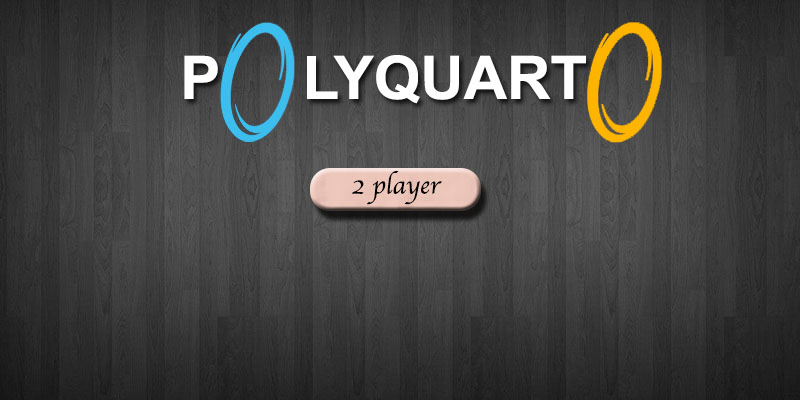
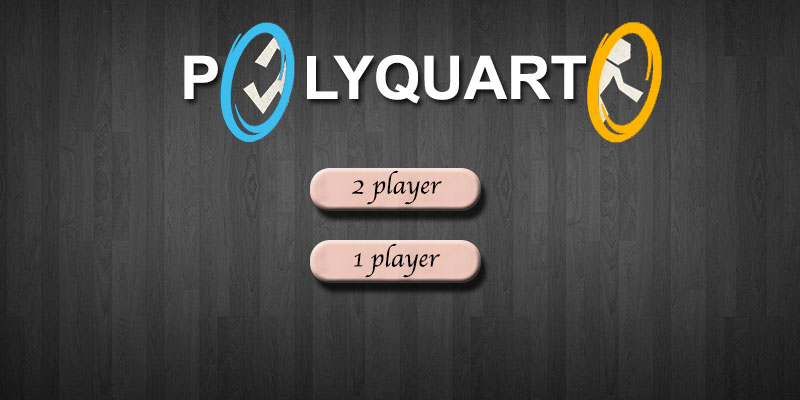
Add files via upload
Mise en place du mode solo avec une Ia random pour tester

diff --git a/src/sdl2/sdlJeu.cpp b/src/sdl2/sdlJeu.cpp
@@ -345,6 +345,13 @@ void sdlJeu:: sdlBoucle () {
 
 void sdlJeu::eventMenu(int mouseX, int mouseY) {
     if(mouseX >= 310 && mouseX <= 480 && mouseY >= 170 && mouseY <= 210) {
+        jeu.setMode(multi);
+        jeu.setState(start);
+        sdlAff();
+        SDL_RenderPresent(renderer);
+    }
+    else if(mouseX >= 310 && mouseX <= 480 && mouseY >= 240 && mouseY <= 280) {
+        jeu.setMode(solo);
         jeu.setState(start);
         sdlAff();
         SDL_RenderPresent(renderer);
@@ -392,6 +399,11 @@ void sdlJeu::eventPlaying(int mouseX, int mouseY) {
         if(jeu.poseJeton(x, y)) {
             sdlAff();
             SDL_RenderPresent(renderer);
+            if(jeu.getMode() == solo) {
+                Ia::jouer(jeu);
+                sdlAff();
+                SDL_RenderPresent(renderer);
+            }
         }
     }
     else if(mouseX >= 400 && mouseY >= 100) {
@@ -399,6 +411,11 @@ void sdlJeu::eventPlaying(int mouseX, int mouseY) {
         if(jeu.selectJeton(index)) {
             sdlAff();
             SDL_RenderPresent(renderer);
+            if(jeu.getMode() == solo) {
+                Ia::jouer(jeu);
+                sdlAff();
+                SDL_RenderPresent(renderer);
+            }
         }
     }
     else if(mouseX >= 690 && mouseX <= 775 && mouseY >= 35 && mouseY <= 70) {

diff --git a/src/core/Ia.cpp b/src/core/Ia.cpp
@@ -1,0 +1,28 @@
+#include <iostream>
+#include <stdlib.h>
+#include <time.h>
+#include "Ia.h"
+
+using namespace std;
+
+void Ia::jouer(Jeu & j) {
+	srand (time(NULL));
+	int x, y, i;
+
+	if(j.getJoueur() == 1) {
+		x = rand() % 4;
+		y = rand() % 4;
+
+		while(!j.poseJeton(x,y)) {
+			x = rand() % 4;
+			y = rand() % 4;
+		}
+	}
+	else {
+		i = rand() % 16;
+
+		while(!j.selectJeton(i)) {
+			i = rand() % 16;
+		}
+	}
+}

diff --git a/src/core/Jeu.h b/src/core/Jeu.h
@@ -8,6 +8,8 @@ using namespace std;
 
 enum State {menu, start, playing, won, egalite};
 
+enum Mode {multi, solo};
+
 class Jeu {
 
 private :
@@ -17,6 +19,7 @@ private :
 	Grille grid;
 	int winningCondition;
 	State state;
+	Mode mode;
 	int joueur;
 	int countPose;
 
@@ -45,6 +48,10 @@ public :
 	State getState();
 
 	void setState(State s);
+
+	Mode getMode();
+
+	void setMode(Mode m);
 
 	int getJoueur();
 

diff --git a/src/core/Jeu.cpp b/src/core/Jeu.cpp
@@ -23,6 +23,7 @@ Jeu::Jeu () {
 	grid = Grille();
 	joueur = 1;
 	countPose = 0;
+	mode = multi;
 }
 
 Jeu::~Jeu() {
@@ -103,6 +104,14 @@ State Jeu::getState() {
 
 void Jeu::setState(State s) {
 	state = s;
+}
+
+Mode Jeu::getMode() {
+	return mode;
+}
+
+void Jeu::setMode(Mode m) {
+	mode = m;
 }
 
 int Jeu::getJoueur() {

diff --git a/src/core/Ia.h b/src/core/Ia.h
@@ -1,0 +1,19 @@
+#ifndef _IA_H
+#define _IA_H
+
+#include "Jeu.h"
+
+using namespace std;
+
+class Ia {
+
+private :
+
+public :
+
+	static void jouer(Jeu & j);
+
+};
+
+
+#endif

diff --git a/src/sdl2/sdlJeu.h b/src/sdl2/sdlJeu.h
@@ -4,8 +4,8 @@
 #include <SDL.h>
 #include <SDL_image.h>
 
-#include "../core/Jeton.h"
 #include "../core/Jeu.h"
+#include "../core/Ia.h"
 
 
 class Image {
